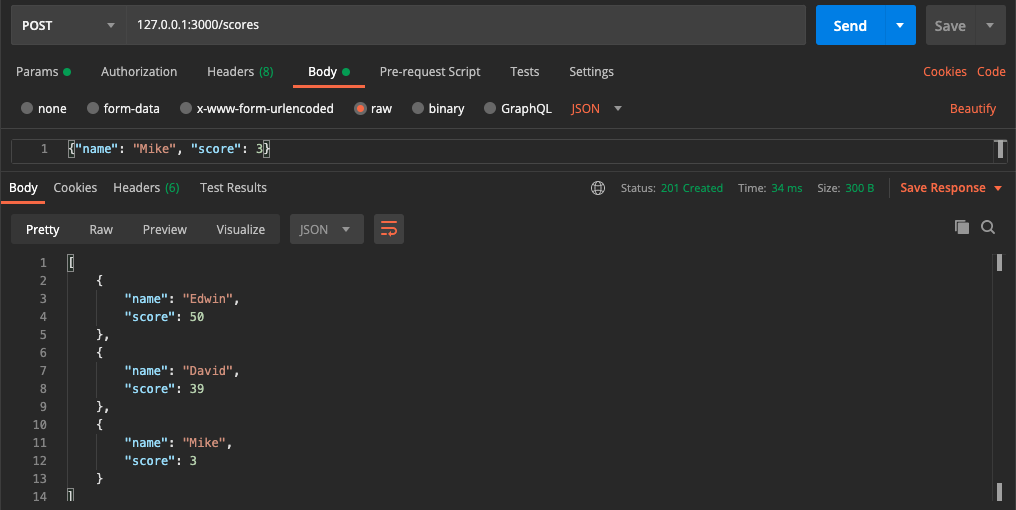
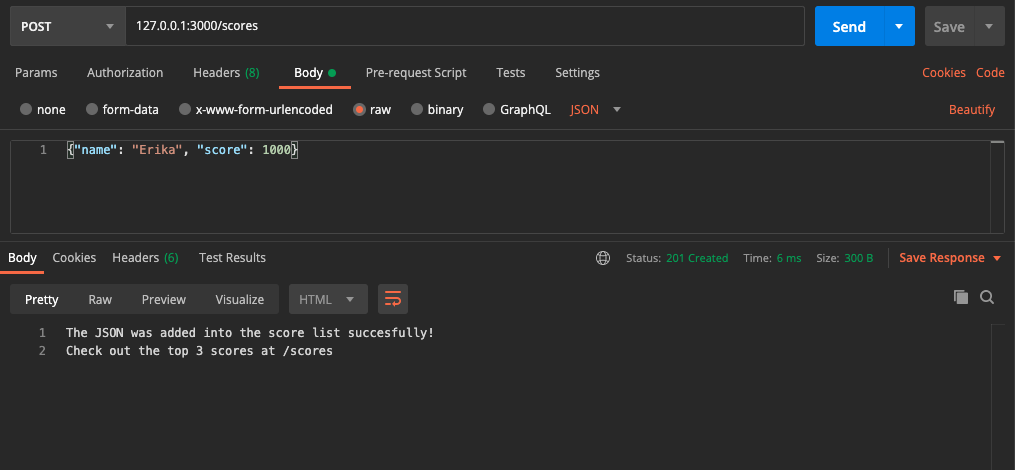
display top 3 scores on GET method

diff --git a/scores.js b/scores.js
@@ -16,17 +16,19 @@ app.get("/", (req, res) => {
 });
 
 app.get("/scores", (req, res) => {
-    res.json(scores);
-});
-
-app.post("/scores", (req, res) => {
-    scores.push(req.body);
     new_scores = scores
         .concat()
         .sort((a, b) => b.score - a.score)
         .slice(0, 3);
-    res.status(201);
     res.json(new_scores);
+});
+
+app.post("/scores", (req, res) => {
+    scores.push(req.body);
+    res.status(201);
+    res.send(
+        `The JSON was added into the score list succesfully!\n Check out the top 3 scores at /scores`
+    );
 });
 
 app.listen(port, () => {
